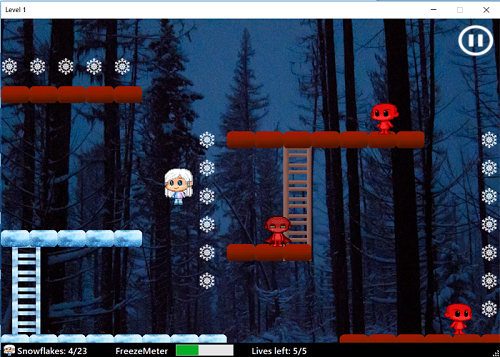
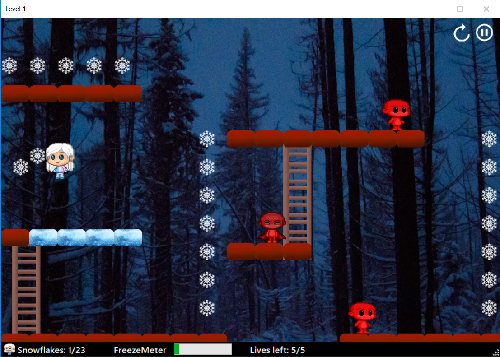
Added restart option for each level. Updated screenshots.

diff --git a/FrozenWorld/Form1_2Player.Designer.cs b/FrozenWorld/Form1_2Player.Designer.cs
@@ -40,8 +40,10 @@
             this.tsslPlayer2Lives = new System.Windows.Forms.ToolStripStatusLabel();
             this.timer1 = new System.Windows.Forms.Timer(this.components);
             this.pbPausePlay = new System.Windows.Forms.PictureBox();
+            this.pbRestart = new System.Windows.Forms.PictureBox();
             this.statusStrip1.SuspendLayout();
             ((System.ComponentModel.ISupportInitialize)(this.pbPausePlay)).BeginInit();
+            ((System.ComponentModel.ISupportInitialize)(this.pbRestart)).BeginInit();
             this.SuspendLayout();
             // 
             // statusStrip1
@@ -129,19 +131,32 @@
             // 
             this.pbPausePlay.BackColor = System.Drawing.Color.Transparent;
             this.pbPausePlay.Image = global::FrozenWorld.Properties.Resources.pause;
-            this.pbPausePlay.Location = new System.Drawing.Point(810, 140);
+            this.pbPausePlay.Location = new System.Drawing.Point(810, 150);
             this.pbPausePlay.Name = "pbPausePlay";
-            this.pbPausePlay.Size = new System.Drawing.Size(58, 49);
+            this.pbPausePlay.Size = new System.Drawing.Size(43, 39);
             this.pbPausePlay.SizeMode = System.Windows.Forms.PictureBoxSizeMode.StretchImage;
             this.pbPausePlay.TabIndex = 2;
             this.pbPausePlay.TabStop = false;
             this.pbPausePlay.Click += new System.EventHandler(this.PbPausePlay_Click);
+            // 
+            // pbRestart
+            // 
+            this.pbRestart.BackColor = System.Drawing.Color.Transparent;
+            this.pbRestart.Image = global::FrozenWorld.Properties.Resources.restart;
+            this.pbRestart.Location = new System.Drawing.Point(768, 150);
+            this.pbRestart.Name = "pbRestart";
+            this.pbRestart.Size = new System.Drawing.Size(36, 39);
+            this.pbRestart.SizeMode = System.Windows.Forms.PictureBoxSizeMode.StretchImage;
+            this.pbRestart.TabIndex = 3;
+            this.pbRestart.TabStop = false;
+            this.pbRestart.Click += new System.EventHandler(this.PbRestart_Click);
             // 
             // Form1_2Player
             // 
             this.AutoScaleDimensions = new System.Drawing.SizeF(8F, 16F);
             this.AutoScaleMode = System.Windows.Forms.AutoScaleMode.Font;
             this.ClientSize = new System.Drawing.Size(1186, 536);
+            this.Controls.Add(this.pbRestart);
             this.Controls.Add(this.pbPausePlay);
             this.Controls.Add(this.statusStrip1);
             this.Name = "Form1_2Player";
@@ -152,6 +167,7 @@
             this.statusStrip1.ResumeLayout(false);
             this.statusStrip1.PerformLayout();
             ((System.ComponentModel.ISupportInitialize)(this.pbPausePlay)).EndInit();
+            ((System.ComponentModel.ISupportInitialize)(this.pbRestart)).EndInit();
             this.ResumeLayout(false);
             this.PerformLayout();
 
@@ -170,5 +186,6 @@
         private System.Windows.Forms.ToolStripStatusLabel tsslPlayer2Lives;
         private System.Windows.Forms.Timer timer1;
         private System.Windows.Forms.PictureBox pbPausePlay;
+        private System.Windows.Forms.PictureBox pbRestart;
     }
 }

diff --git a/FrozenWorld/Form1.Designer.cs b/FrozenWorld/Form1.Designer.cs
@@ -36,8 +36,10 @@
             this.tsspbFreezables = new System.Windows.Forms.ToolStripProgressBar();
             this.tsslLivesLeft = new System.Windows.Forms.ToolStripStatusLabel();
             this.pbPausePlay = new System.Windows.Forms.PictureBox();
+            this.pbRestart = new System.Windows.Forms.PictureBox();
             this.statusStrip1.SuspendLayout();
             ((System.ComponentModel.ISupportInitialize)(this.pbPausePlay)).BeginInit();
+            ((System.ComponentModel.ISupportInitialize)(this.pbRestart)).BeginInit();
             this.SuspendLayout();
             // 
             // timer1
@@ -103,17 +105,30 @@
             this.pbPausePlay.Image = global::FrozenWorld.Properties.Resources.pause;
             this.pbPausePlay.Location = new System.Drawing.Point(950, 22);
             this.pbPausePlay.Name = "pbPausePlay";
-            this.pbPausePlay.Size = new System.Drawing.Size(57, 50);
+            this.pbPausePlay.Size = new System.Drawing.Size(43, 39);
             this.pbPausePlay.SizeMode = System.Windows.Forms.PictureBoxSizeMode.StretchImage;
             this.pbPausePlay.TabIndex = 1;
             this.pbPausePlay.TabStop = false;
             this.pbPausePlay.Click += new System.EventHandler(this.PbPausePlay_Click);
+            // 
+            // pbRestart
+            // 
+            this.pbRestart.BackColor = System.Drawing.Color.Transparent;
+            this.pbRestart.Image = global::FrozenWorld.Properties.Resources.restart;
+            this.pbRestart.Location = new System.Drawing.Point(887, 22);
+            this.pbRestart.Name = "pbRestart";
+            this.pbRestart.Size = new System.Drawing.Size(37, 39);
+            this.pbRestart.SizeMode = System.Windows.Forms.PictureBoxSizeMode.StretchImage;
+            this.pbRestart.TabIndex = 2;
+            this.pbRestart.TabStop = false;
+            this.pbRestart.Click += new System.EventHandler(this.PbRestart_Click);
             // 
             // Form1
             // 
             this.AutoScaleDimensions = new System.Drawing.SizeF(8F, 16F);
             this.AutoScaleMode = System.Windows.Forms.AutoScaleMode.Font;
             this.ClientSize = new System.Drawing.Size(1310, 502);
+            this.Controls.Add(this.pbRestart);
             this.Controls.Add(this.pbPausePlay);
             this.Controls.Add(this.statusStrip1);
             this.ForeColor = System.Drawing.SystemColors.ControlText;
@@ -128,6 +143,7 @@
             this.statusStrip1.ResumeLayout(false);
             this.statusStrip1.PerformLayout();
             ((System.ComponentModel.ISupportInitialize)(this.pbPausePlay)).EndInit();
+            ((System.ComponentModel.ISupportInitialize)(this.pbRestart)).EndInit();
             this.ResumeLayout(false);
             this.PerformLayout();
 
@@ -142,6 +158,7 @@
         private System.Windows.Forms.ToolStripStatusLabel toolStripStatusLabel1;
         private System.Windows.Forms.ToolStripStatusLabel tsslSnowflakes;
         private System.Windows.Forms.PictureBox pbPausePlay;
+        private System.Windows.Forms.PictureBox pbRestart;
     }
 }
 

diff --git a/FrozenWorld/Form1_2Player.cs b/FrozenWorld/Form1_2Player.cs
@@ -29,7 +29,8 @@ namespace FrozenWorld
 
             newGame(Game);
 
-            pbPausePlay.Location = new Point(this.Width - 70, 10);
+            pbPausePlay.Location = new Point(this.Width - 60, 10);
+            pbRestart.Location = new Point(pbPausePlay.Location.X - pbRestart.Width - 10, 10);
         }
 
         public void newGame(Game2Player Game)
@@ -232,6 +233,19 @@ namespace FrozenWorld
                 pbPausePlay.Image = Resources.play;
                 isPaused = true;
                 timer1.Stop();
+            }
+        }
+        private void PbRestart_Click(object sender, EventArgs e)
+        {
+            timer1.Stop();
+            DialogResult dialogResult = MessageBox.Show("Are you sure you want to restart the game?", "Restart level", MessageBoxButtons.YesNo);
+            if (dialogResult == DialogResult.Yes)
+            {
+                resetGame();
+            }
+            else if (dialogResult == DialogResult.No)
+            {
+                timer1.Start();
             }
         }
     }

diff --git a/FrozenWorld/Form1.cs b/FrozenWorld/Form1.cs
@@ -30,7 +30,8 @@ namespace FrozenWorld
             isPaused = false;
             newGame(Game);
 
-            pbPausePlay.Location = new Point(this.Width-70,10);
+            pbPausePlay.Location = new Point(this.Width-60,10);
+            pbRestart.Location = new Point(pbPausePlay.Location.X-pbRestart.Width-10,10);
         }
 
         public void newGame(Game Game)
@@ -178,6 +179,20 @@ namespace FrozenWorld
                 isPaused = true;
                 timer1.Stop();
             }
+        }
+
+        private void PbRestart_Click(object sender, EventArgs e)
+        {
+            timer1.Stop();
+            DialogResult dialogResult = MessageBox.Show("Are you sure you want to restart the game?", "Restart level", MessageBoxButtons.YesNo);
+            if (dialogResult == DialogResult.Yes)
+            {
+                resetGame();
+            }
+            else if (dialogResult == DialogResult.No)
+            {
+               timer1.Start();
+            }           
         }
     }
 }

diff --git a/FrozenWorld/Properties/Resources.Designer.cs b/FrozenWorld/Properties/Resources.Designer.cs
@@ -493,6 +493,16 @@ namespace FrozenWorld.Properties {
         /// <summary>
         ///   Looks up a localized resource of type System.Drawing.Bitmap.
         /// </summary>
+        internal static System.Drawing.Bitmap restart {
+            get {
+                object obj = ResourceManager.GetObject("restart", resourceCulture);
+                return ((System.Drawing.Bitmap)(obj));
+            }
+        }
+        
+        /// <summary>
+        ///   Looks up a localized resource of type System.Drawing.Bitmap.
+        /// </summary>
         internal static System.Drawing.Bitmap scoreboard {
             get {
                 object obj = ResourceManager.GetObject("scoreboard", resourceCulture);
